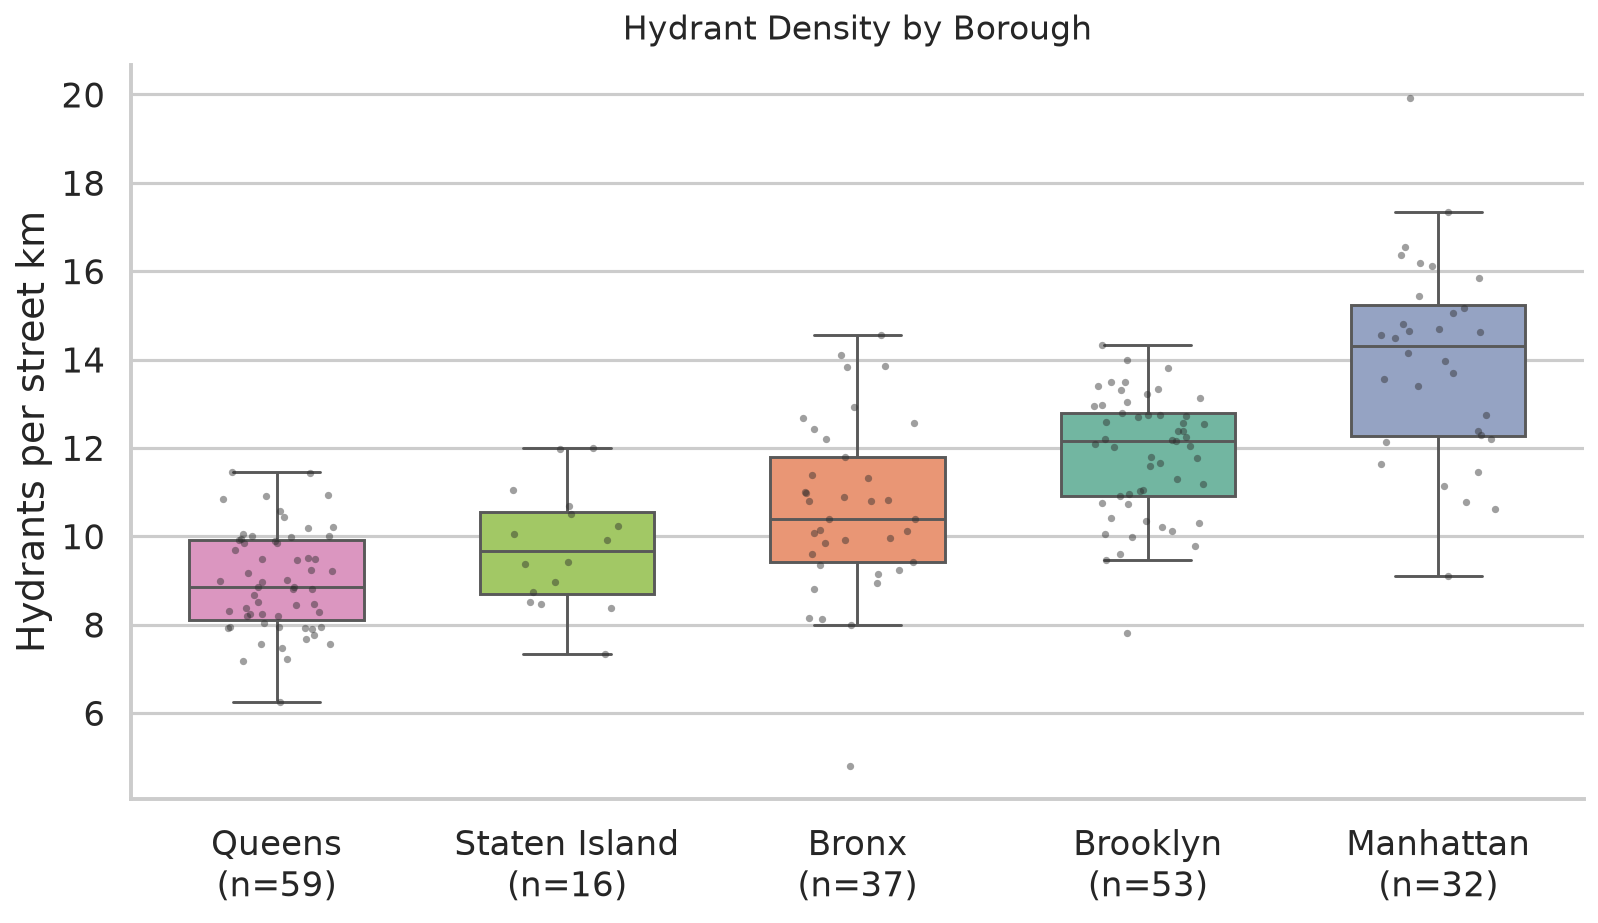
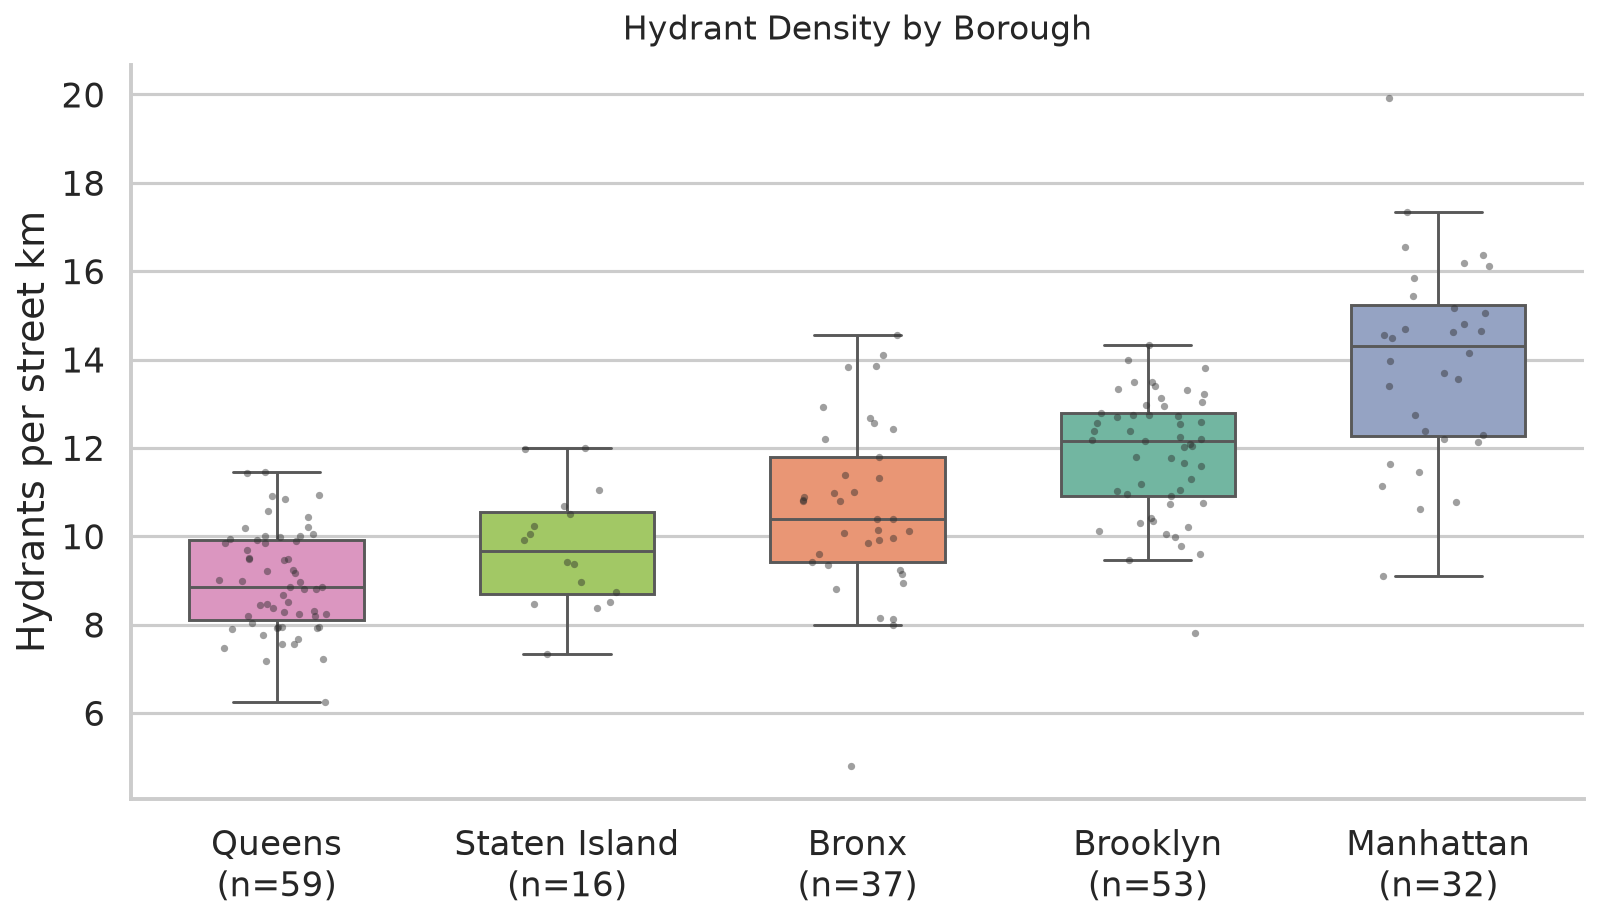
updated ReadMe

diff --git a/README.md b/README.md
@@ -6,8 +6,8 @@ Where is hydrant coverage densest in NYC, and which neighborhoods are underserve
 
 ## The data
 
-- **NYC Neighborhoods.** 262 polygons (2020 Neighborhood Tabulation Areas (NTAs), Source: [NYC Open Data](https://opendata.cityofnewyork.us))
-- **NYC Fire Hydrants.** 109,725 points (Source: [NYC Open Data](https://opendata.cityofnewyork.us))
+- **NYC Neighborhoods.** 262 polygons (2020 Neighborhood Tabulation Areas (NTAs), Source: [NYC Open Data](https://data.cityofnewyork.us/City-Government/2020-Neighborhood-Tabulation-Areas-NTAs-/9nt8-h7nd/about_data))
+- **NYC Fire Hydrants.** 109,725 points (Source: [NYC Open Data](https://data.cityofnewyork.us/Environment/Hydrants/5bgh-vtsn/about_data))
 - License: NYC Open Data Terms of Use
 - All data in EPSG:4326
 
